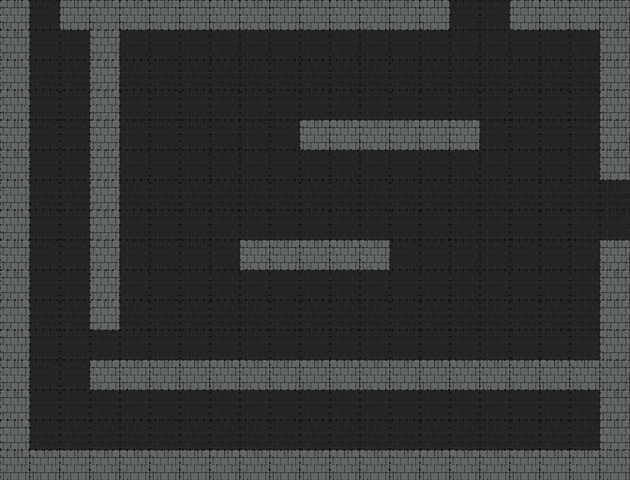
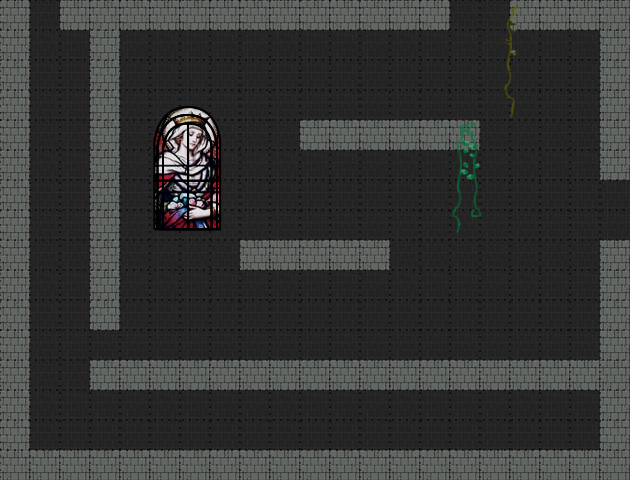
More DI

Changed region(s): [[0.2413, 0.2188, 0.3619, 0.5], [0.7238, 0.25, 0.7841, 0.4688], [0.7841, 0.0312, 0.8143, 0.125]]

diff --git a/SampleGames/ShaculaV2/scripts/level.js b/SampleGames/ShaculaV2/scripts/level.js
@@ -66,12 +66,36 @@ var Levels = [
             {"x":600,"y":390,"width":30,"height":60},
             {"x":240,"y":240,"width":150,"height":30}
         ],
-        spikes: [ ],
-        bats: [ ],
-        blood: [ ],
-        fallingWalls: [],
+        spikes: [
+            { x: 120, y: 443, delay: 1.5 },
+            { x: 150, y: 443, delay: 1.6 },
+            { x: 180, y: 443, delay: 1.7 },
+            { x: 210, y: 443, delay: 1.8 },
+            { x: 240, y: 443, delay: 1.9 },
+            { x: 270, y: 443, delay: 2 },
+            { x: 300, y: 443, delay: 2.1 }
+        ],
+        bats: [
+            {x: 400, y: 400, max: 100, upDown: false, speed: 0.02 },
+            {x: 350, y: 100, max: 150, upDown: false, speed: 0.02 }
+        ],
+        blood: [
+            { x: 425, y: 85, isActive: true },
+            { x: 45, y: 410, isActive: true },
+        ],
+        fallingWalls: [
+            { x: 270, y: 270, fallSpeed: 1.5 },
+            { x: 300, y: 150, fallSpeed: 1.5 },
+            { x: 330, y: 150, fallSpeed: 1.5 },
+            { x: 430, y: 150, fallSpeed: 1.5 }
+        ],
         levers: [],
         movableWalls: [],
+        saws: [
+            { x: 30, y: 90, type: 'linear', speed: 0, range: 0 },
+            { x: 60, y: 180, type: 'linear', speed: 0, range: 0 },
+            { x: 30, y: 270, type: 'linear', speed: 0, range: 0 }
+        ],
         exit: [ 
             { x: 31, y: 0, width: 30, height: 3, goTo: 0, showsAt: { x: 41, y: 443 } },
             { x: 450, y: 0, width: 59, height: 3, goTo: 0, showsAt: { x: 475, y: 443 } },
@@ -209,8 +233,10 @@ var Levels = [
             { x: 480, y: 348, state: 0, wall: { "x":510,"y":330,"width":30,"height":30 } }
         ],
         movableWalls: [],
+        portal: { x: 120, y: 328 },
         exit: [ 
-            { x: 628, y: 420, width: 2, height: 30, goTo: 5, showsAt: { x: 14, y: 420 } }
+            { x: 628, y: 420, width: 2, height: 30, goTo: 5, showsAt: { x: 14, y: 420 } },
+            { x: 120, y: 330, width: 19, height: 28, goTo: 11, showsAt: { x: 450, y: 360 } }
         ]
     },
     {
@@ -362,9 +388,11 @@ var Levels = [
         fallingWalls: [],
         levers: [],
         movableWalls: [],
+        portal: { x: 420, y: 358 },
         exit: [ 
             { x: 30, y: 0, width: 30, height: 2, goTo: 7, showsAt: { x: 41, y: 444 } },
-            { x: 390, y: 478, width: 30, height: 2, goTo: 12, showsAt: { x: 400, y: 15 } } 
+            { x: 390, y: 478, width: 30, height: 2, goTo: 12, showsAt: { x: 400, y: 15 } },
+            { x: 420, y: 360, width: 18, height: 30, goTo: 6, showsAt: { x: 150, y: 330 } } 
         ]
     },
     {

diff --git a/SampleGames/ShaculaV2/index.html b/SampleGames/ShaculaV2/index.html
@@ -12,6 +12,7 @@
 	<script language="Javascript" src="../../Framework/jsGFwkScenes.js"></script>
 	<script language="Javascript" src="../../Framework/jsGFwkFonts.js"></script>
 	<script language="Javascript" src="../../Framework/jsGFwkEffects.js"></script>
+	<script language="Javascript" src="../../Framework/jsGFwkGamepad.js"></script>
 	
 	<script language="Javascript" src="scripts/hud.js"></script>
 	<script language="Javascript" src="scripts/gameController.js"></script>
@@ -29,6 +30,7 @@
     <script language="Javascript" src="scripts/lever.js"></script>
     <script language="Javascript" src="scripts/movableWall.js"></script>
     <script language="Javascript" src="scripts/saw.js"></script>
+	<script language="Javascript" src="scripts/portal.js"></script>
 	
 	<body>
 		<canvas id="canvas" width="630" height="480"></canvas>
@@ -47,6 +49,7 @@
 		jsGFwk.include("Scenes");
 		jsGFwk.include("Fonts");
 		jsGFwk.include("Effects");
+		jsGFwk.include("Gamepad");
 		
 		jsGFwk.Fonts.createFont({ name: 'zxBold', source: 'fonts/zxBold.ttf' });
 		
@@ -58,7 +61,7 @@
         }
 		
 		var GLOBAL = {
-            currentLevel: 12,
+            currentLevel: 6,
             maxOil: 500, 
             lightOil: 100,
             minRadiusLight: 50,
@@ -66,7 +69,8 @@
             resetMaxMinLight: 50,
             consumeLight: 0.005,
             lightConsum: 3,
-            lightIncrement: 1
+            lightIncrement: 1,
+			selectedPad: null
         };
 				
 		jsGFwk.createObject({
@@ -248,7 +252,7 @@
                             GLOBAL.sawContainer,
                             GLOBAL.batContainer, GLOBAL.fallingWallContainer,
                             GLOBAL.movableWallContainer,
-                            Coffin, dracul, Light,
+                            Coffin, Portal, dracul, Light,
                             GLOBAL.exitContainer] });
 								
 					//jsGFwk.Scenes.scenes.main.enable();

diff --git a/SampleGames/ShaculaV2/scripts/hud.js b/SampleGames/ShaculaV2/scripts/hud.js
@@ -6,17 +6,23 @@ var hud = {
 	startSpriteToShow: 0,
 	fakeMouse: { x: 0, y: 0 },
 	startCoord: { x: 280, y: 200, width: 75, height: 48},
+
+	startAndUnregister: function () {
+		jsGFwk.IO.mouse.unregisterClick(this.mouseId);
+		jsGFwk.IO.mouse.unregisterMove(this.mouseMoveId);
+		GLOBAL.cloudContainer.clearAll();
+		jsGFwk.Scenes.scenes.game.enable();
+	},
+
 	init: function () {
+		var self = this;
 		jsGFwk.Collisions.onObjectCreated(this.fakeMouse);
 		this.mouseId = jsGFwk.IO.mouse.registerClick(function (coord) {
 			jsGFwk._gameObjects.hud.fakeMouse.x = coord.x;
 			jsGFwk._gameObjects.hud.fakeMouse.y = coord.y;
 			
 			if (jsGFwk._gameObjects.hud.fakeMouse.isRectColliding(jsGFwk._gameObjects.hud.startCoord)) {
-				jsGFwk.IO.mouse.unregisterClick(jsGFwk._gameObjects.hud.mouseId);
-				jsGFwk.IO.mouse.unregisterMove(jsGFwk._gameObjects.hud.mouseMoveId);
-                GLOBAL.cloudContainer.clearAll();
-				jsGFwk.Scenes.scenes.game.enable();
+				self.startAndUnregister.call(self);
 			}
 		});
 		
@@ -29,10 +35,23 @@ var hud = {
 				jsGFwk._gameObjects.hud.startSpriteToShow = 0;
 			}
 		});
-        
-        //GLOBAL.wallPattern = jsGFwk.FastAnimation._2Dbuffer.createPattern(jsGFwk.Sprites.wall1.image, "repeat");
 	},
-	update: function (delta) { 
+	update: function (delta) {
+		for (var i = 0; i < jsGFwk.Gamepad.pads.length; i++) {
+			//Pad is connected
+			if (jsGFwk.Gamepad.pads[jsGFwk.Gamepad.PADTYPE['PAD' + i]] !== undefined) {
+				if (jsGFwk.Gamepad.pads[jsGFwk.Gamepad.PADTYPE['PAD' + i]].buttons.length > 0) {
+					GLOBAL.selectedPad = i;
+				}
+			} 
+		}
+
+		//check if is connected
+		if (jsGFwk.Gamepad.pads[GLOBAL.selectedPad] !== undefined &&
+			jsGFwk.Gamepad.pads[GLOBAL.selectedPad].buttons[0].pressed) {
+			this.startAndUnregister();
+		}
+
         var p = (Math.random() * 50) + 50;
 
         GLOBAL.cloudContainer.cloneObject({ 

diff --git a/SampleGames/ShaculaV2/scripts/light.js b/SampleGames/ShaculaV2/scripts/light.js
@@ -134,11 +134,11 @@ var Light = {
     draw: function (ctx) {
         this.drawPointer(ctx);
         
-        /*var gradient = ctx.createRadialGradient(this.x, this.y, 1, this.x + 5, this.y + 5, GLOBAL.maxRadiusLight + this.diffLight);
+        var gradient = ctx.createRadialGradient(this.x, this.y, 1, this.x + 5, this.y + 5, GLOBAL.maxRadiusLight + this.diffLight);
         gradient.addColorStop(0, "transparent");
         gradient.addColorStop(1, "black");
         ctx.fillStyle = gradient;
-        ctx.fillRect(0, 0, 640, 480);*/
+        ctx.fillRect(0, 0, 640, 480);
         
         this.drawOil(ctx);
     }

diff --git a/SampleGames/ShaculaV2/scripts/portal.js b/SampleGames/ShaculaV2/scripts/portal.js
@@ -1,0 +1,20 @@
+var Portal = {
+    id: 'portal',
+    visible: true,
+    accumulatorTimer: 0,
+    init: function () { 
+        jsGFwk.Sprites.portal.reset();
+    },
+    update: function (delta) {
+        this.accumulatorTimer += delta;
+        
+        if (this.accumulatorTimer >= 0.12) {
+            this.accumulatorTimer = 0;
+            jsGFwk.Sprites.portal.next();
+        } 
+    },
+    draw: function (ctx) {
+        ctx.drawImage(jsGFwk.Sprites.portal.sprite.image,
+            Levels[GLOBAL.currentLevel].portal.x, Levels[GLOBAL.currentLevel].portal.y);
+    }
+};

diff --git a/SampleGames/ShaculaV2/scripts/gameController.js b/SampleGames/ShaculaV2/scripts/gameController.js
@@ -65,6 +65,8 @@ var gameController = {
         if (levelToCreate.coffin === undefined) {
             Coffin.visible = false;
         }
+
+        Portal.visible = levelToCreate.portal !== undefined;
     },
     exitFromLevel: function (data) {
         GLOBAL.spikeContainer.clearAll();
